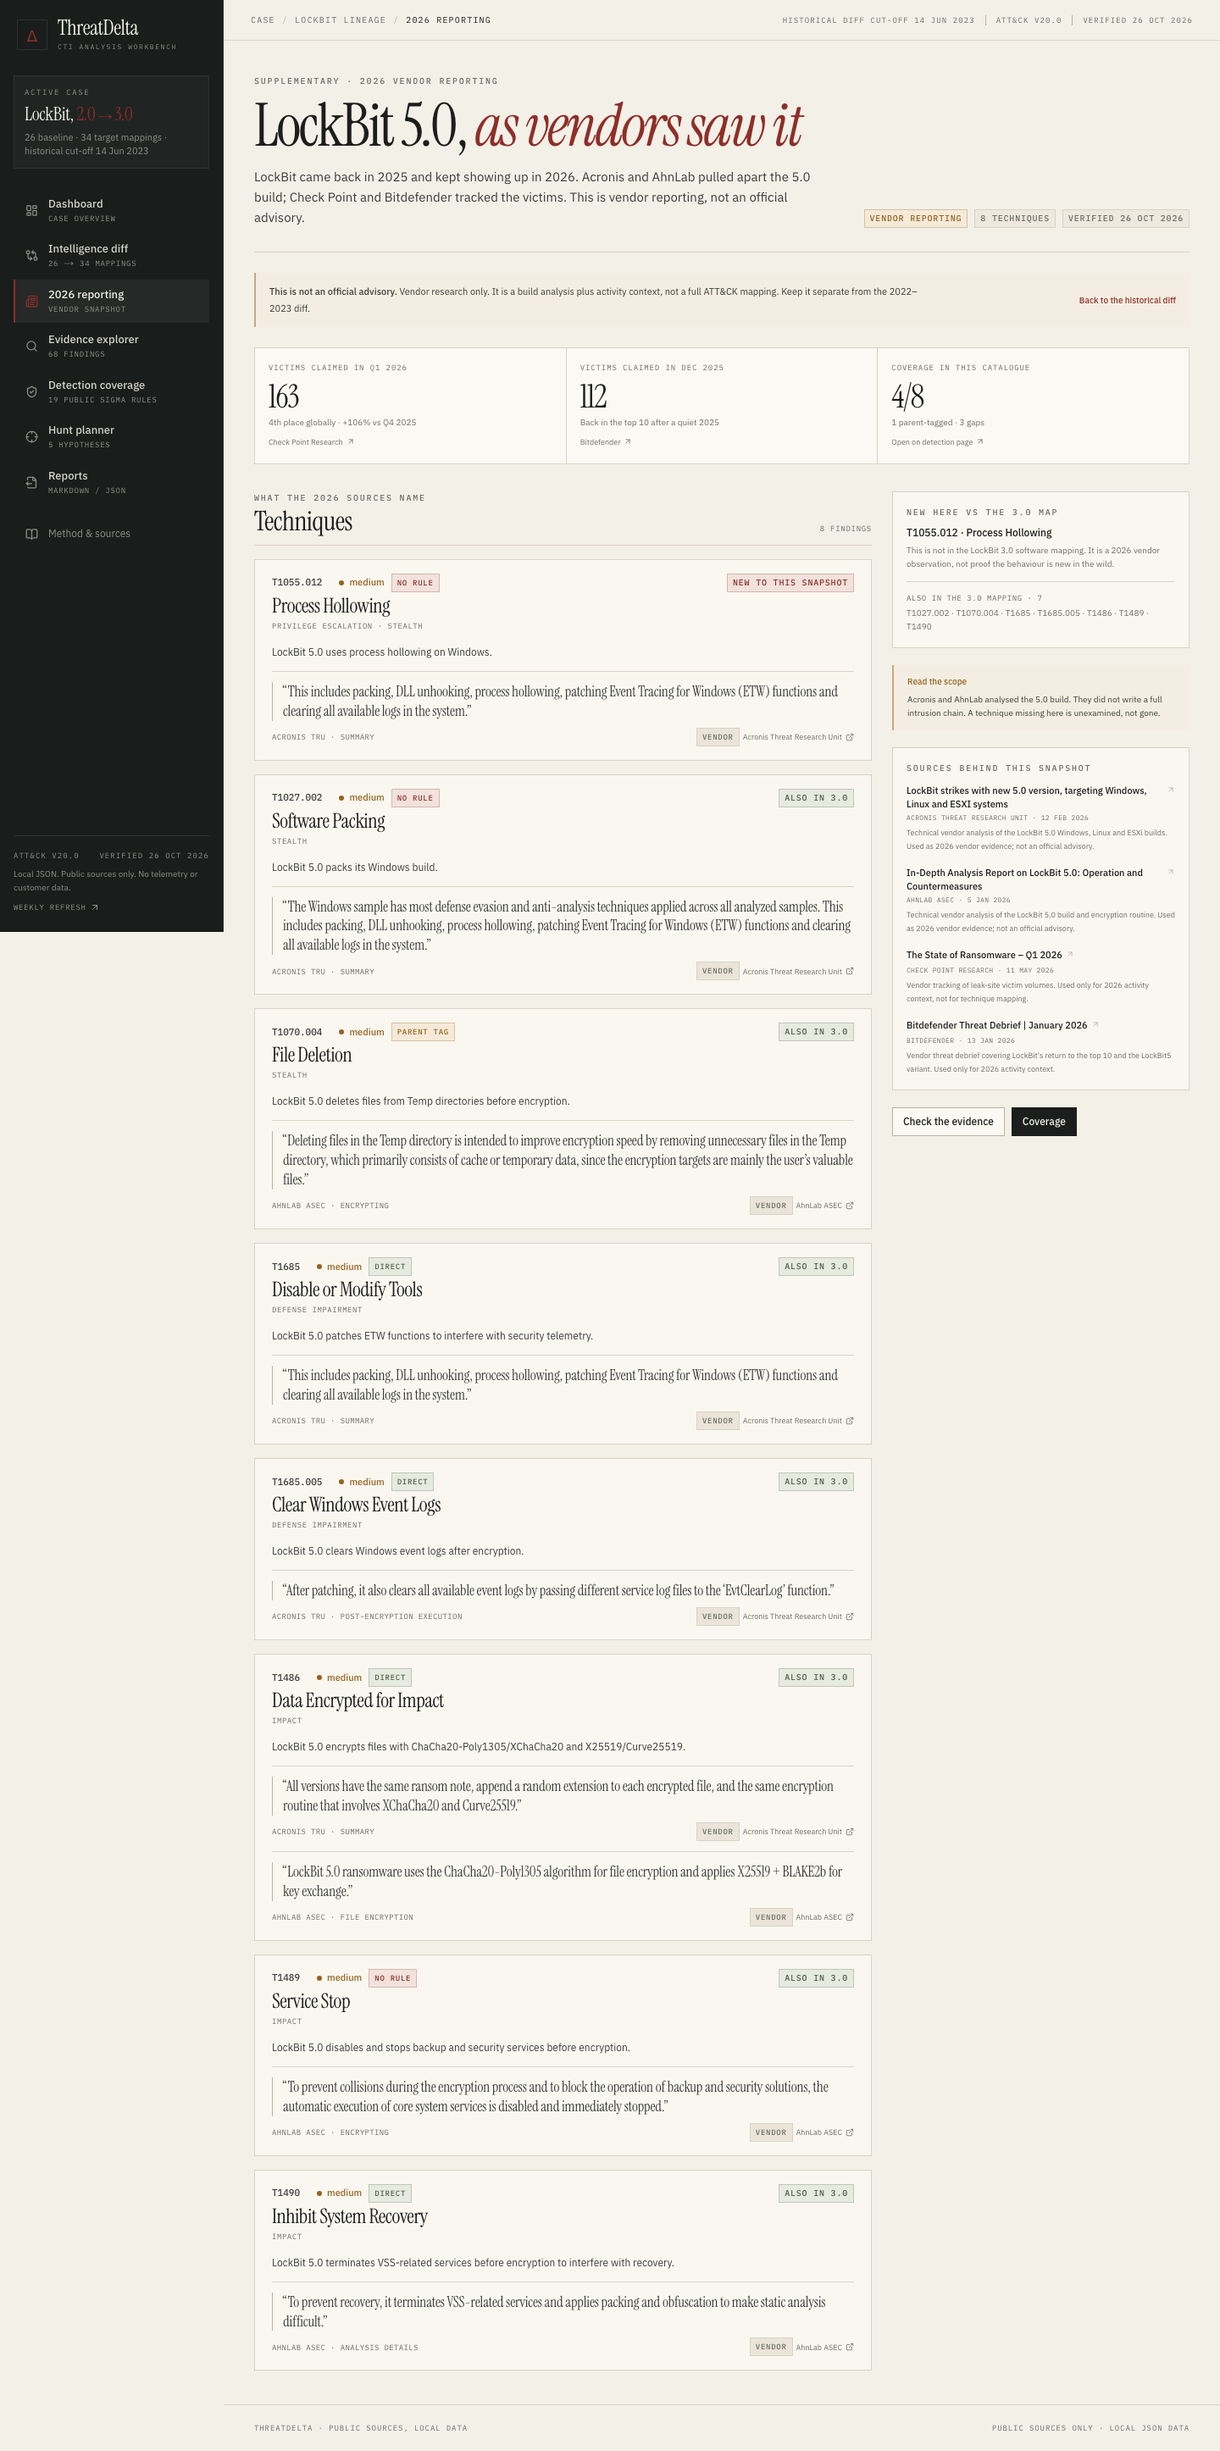
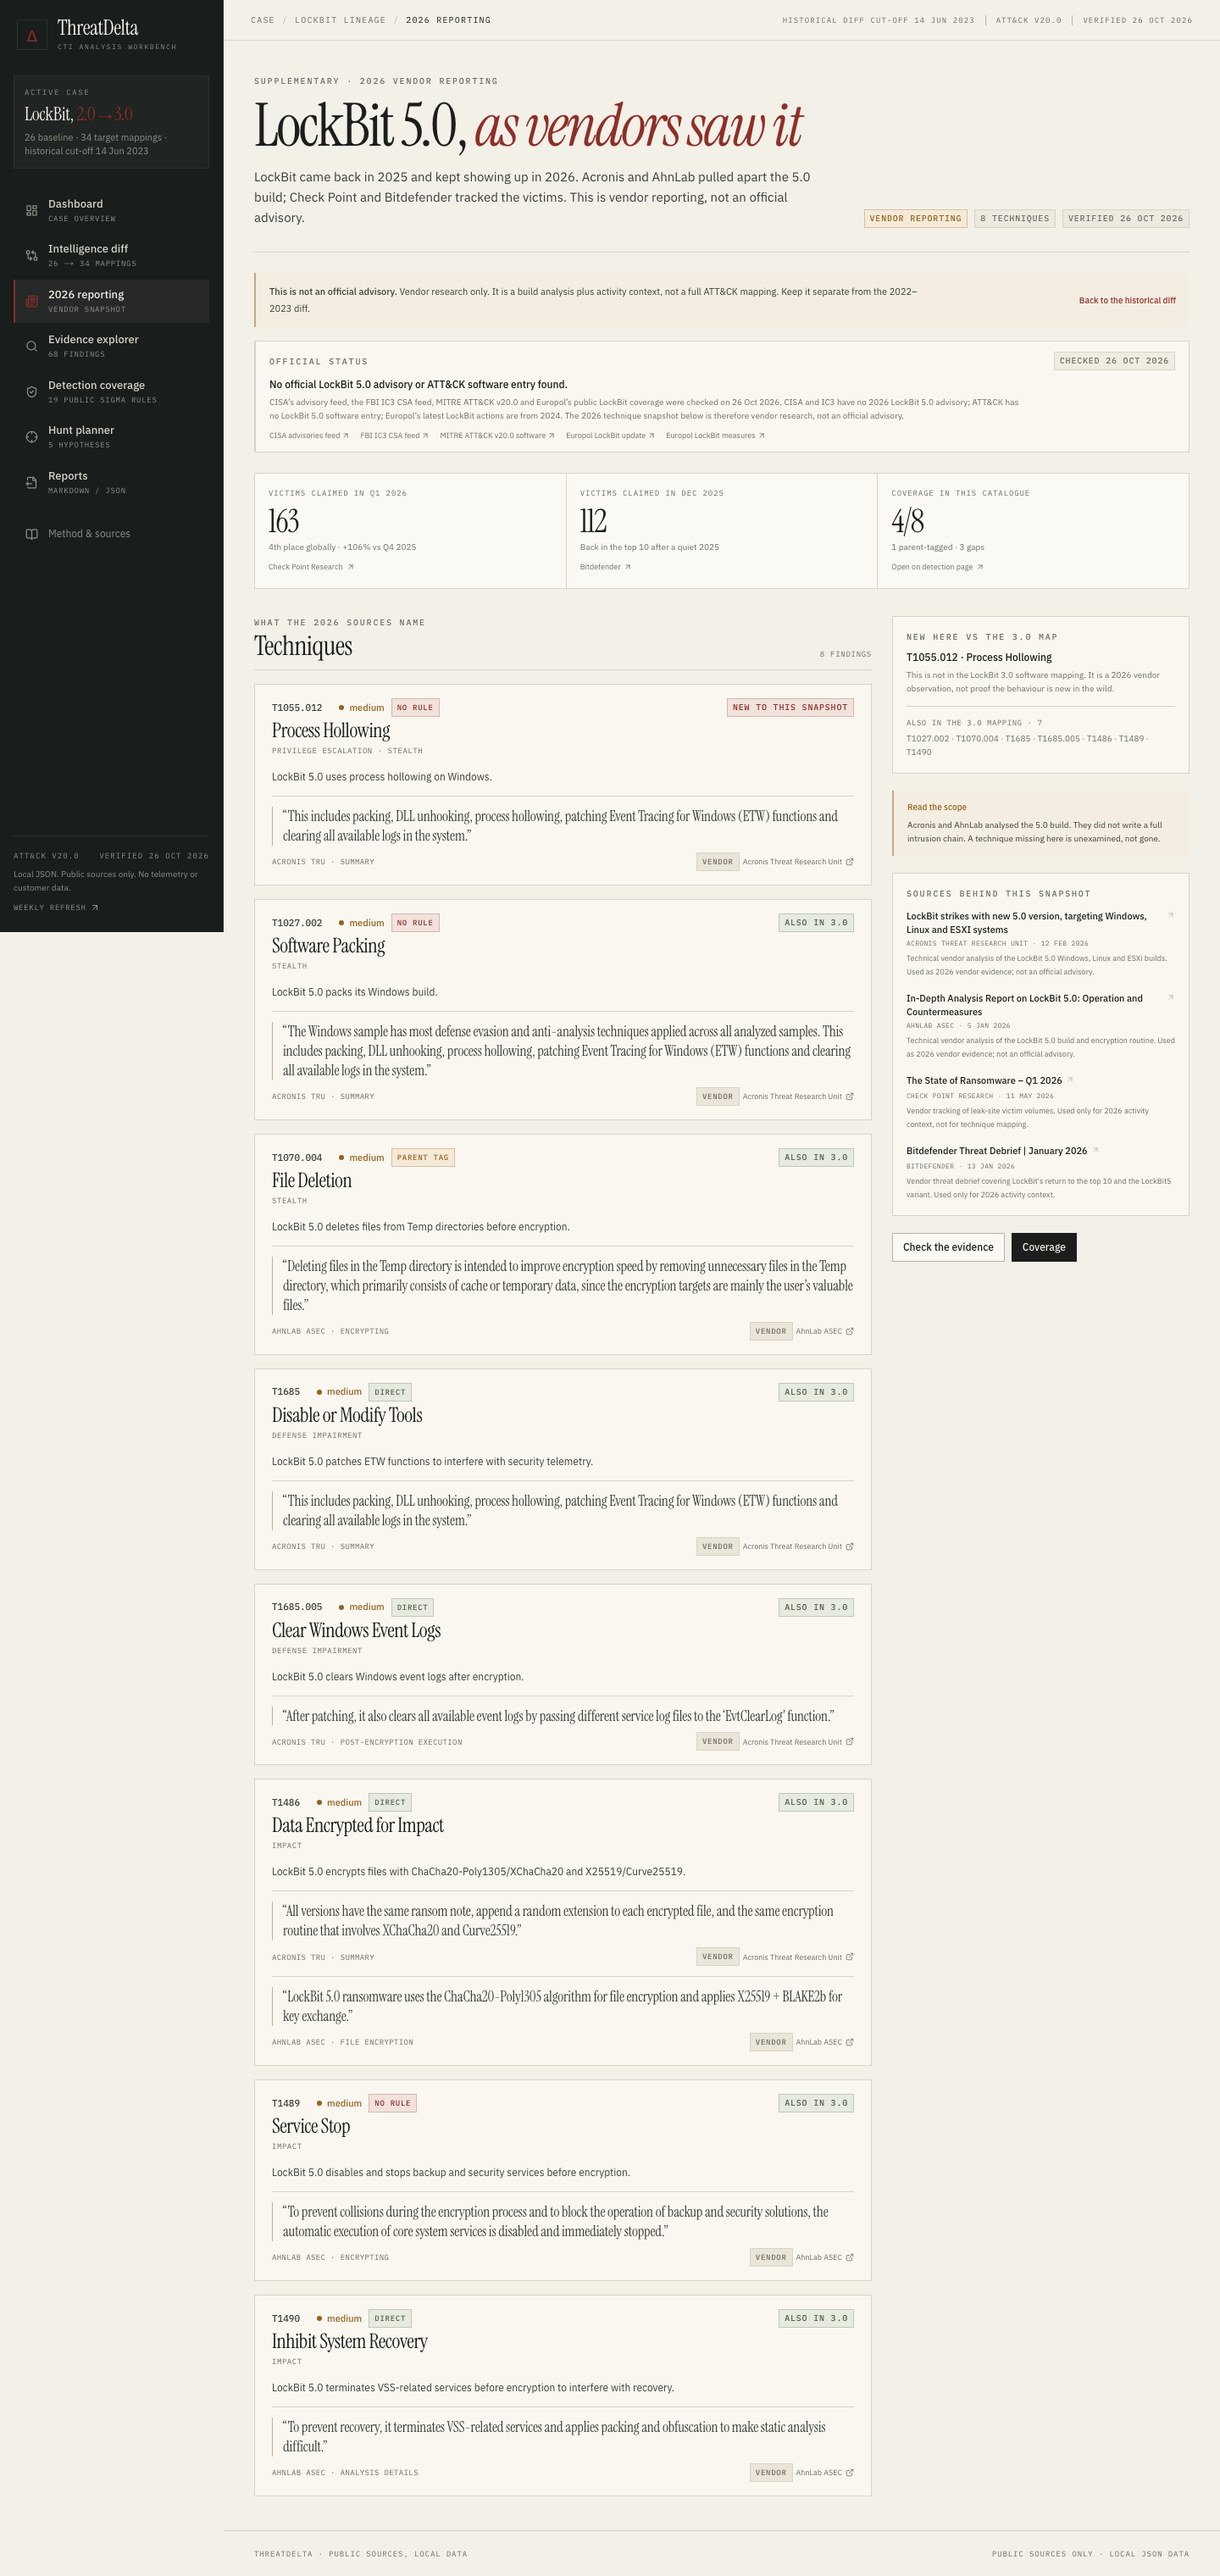
fix: make the 2026 source status explicit
- Check CISA, FBI IC3, MITRE ATT&CK v20.0 and Europol for official 2026 LockBit 5.0 coverage.
- Record that no official 2026 advisory or ATT&CK software entry exists; keep vendor research clearly labelled.
- Add Europol 2024 LockBit context, official-source links and provenance validation.
- Surface the official check on the dashboard, /2026 page and report exports.
- Update source counts to 15 and bump to 0.1.3.

diff --git a/app/2026/page.tsx b/app/2026/page.tsx
@@ -59,6 +59,28 @@ export default function CurrentReportingPage() {
         </a>
       </div>
 
+      <Panel className="mt-4 border-l-2 border-ink/40 px-4 py-3">
+        <div className="flex flex-wrap items-center justify-between gap-2">
+          <SectionLabel>Official status</SectionLabel>
+          <Badge tone="neutral">Checked {formatDate(caseFile.currentReporting.officialCheck.checkedAt)}</Badge>
+        </div>
+        <p className="mt-2 text-[12px] font-medium text-ink">{caseFile.currentReporting.officialCheck.summary}</p>
+        <p className="mt-1 max-w-4xl text-[10px] leading-4 text-muted">{caseFile.currentReporting.officialCheck.detail}</p>
+        <div className="mt-2 flex flex-wrap gap-x-3 gap-y-1">
+          {caseFile.currentReporting.officialCheck.links.map((link) => (
+            <a
+              key={link.url}
+              href={link.url}
+              target="_blank"
+              rel="noreferrer"
+              className="inline-flex items-center gap-0.5 text-[9px] text-muted hover:text-rust"
+            >
+              {link.label} <ArrowUpRight className="size-2.5" />
+            </a>
+          ))}
+        </div>
+      </Panel>
+
       <section className="mt-6 grid gap-px border border-line bg-line sm:grid-cols-3" aria-label="2026 activity context">
         {caseFile.currentReporting.activity.map((item) => {
           const source = sourceById.get(item.sourceId);

diff --git a/tests/report.test.ts b/tests/report.test.ts
@@ -51,6 +51,7 @@ describe("report exports", () => {
     expect(markdown).toContain("Data verified: 2026-10-26");
     expect(markdown).toContain("## 2026 vendor snapshot");
     expect(markdown).toContain("T1055.012");
+    expect(markdown).toContain("Official check (2026-10-26)");
     expect(markdown).toContain("Detection coverage");
     expect(markdown).toContain("Credential-led SMB fan-out");
     expect(markdown).toContain("https://www.ic3.gov/CSA/2022/220204.pdf");
@@ -98,7 +99,7 @@ describe("report exports", () => {
     expect(json.coverage.summary.covered).toBe(11);
     expect(json.coverage.summary.covered).toBe(datasetStats.coverage.covered);
     expect(json.coverage.summary.broad).toBe(1);
-    expect(json.sources).toHaveLength(13);
+    expect(json.sources).toHaveLength(15);
     expect(json.sources).toHaveLength(sources.length);
     expect(json.evidence).toHaveLength(68);
     expect(json.current.coverage.summary).toMatchObject({ total: 8, direct: 4, broad: 1, gap: 3 });

diff --git a/lib/provenance.ts b/lib/provenance.ts
@@ -177,6 +177,22 @@ export function validateDataset(data: DatasetInput): ValidationIssue[] {
       });
     }
   }
+  const officialCheck = data.caseFile.currentReporting?.officialCheck;
+  if (!officialCheck) {
+    issues.push({ level: "error", message: "The 2026 official-source check is missing" });
+  } else {
+    if (officialCheck.checkedAt !== data.caseFile.verifiedAt) {
+      issues.push({ level: "error", message: "The 2026 official-source check date is stale" });
+    }
+    if (officialCheck.links.length < 2) {
+      issues.push({ level: "error", message: "The 2026 official-source check needs source links" });
+    }
+    for (const link of officialCheck.links) {
+      if (!isHttpUrl(link.url)) {
+        issues.push({ level: "error", message: `Official source check has an invalid URL: ${link.label}` });
+      }
+    }
+  }
 
   for (const observation of data.observations) {
     const prefix = `${observation.snapshotId}/${observation.techniqueId}`;

diff --git a/app/page.tsx b/app/page.tsx
@@ -150,6 +150,9 @@ export default function DashboardPage() {
           <SectionLabel>2026 vendor snapshot</SectionLabel>
           <h2 className="mt-1 font-display text-[27px] leading-[1.02] tracking-[-0.02em]">{caseFile.currentReporting.headline}</h2>
           <p className="mt-2 max-w-2xl text-[11px] leading-5 text-muted">{caseFile.currentReporting.deck}</p>
+          <p className="mt-2 font-mono text-[8px] uppercase tracking-[0.06em] text-muted">
+            Official check · {caseFile.currentReporting.officialCheck.summary}
+          </p>
         </div>
         <div className="bg-surface px-4 py-4">
           <div className="grid h-full gap-3 sm:grid-cols-2 lg:grid-cols-1">

diff --git a/lib/report.ts b/lib/report.ts
@@ -171,6 +171,12 @@ export function buildMarkdownReport(input: ReportInput, options: ReportOptions):
       "",
       `**Scope.** ${caseFile.currentReporting.caveat}`,
       "",
+      `**Official check (${caseFile.currentReporting.officialCheck.checkedAt}).** ${caseFile.currentReporting.officialCheck.detail}`,
+      "",
+      ...caseFile.currentReporting.officialCheck.links.map(
+        (link) => `- Official source: [${link.label}](${link.url})`,
+      ),
+      "",
       `- Snapshot: ${currentSnapshot?.label ?? caseFile.currentReporting.snapshotId}`,
       `- Historical diff cut-off: ${caseFile.asOf}`,
       `- 2026 observations: ${current.length}`,

diff --git a/tests/provenance.test.ts b/tests/provenance.test.ts
@@ -48,7 +48,7 @@ describe("evidence provenance", () => {
     expect(dataset.sigma.ruleCount).toBe(sigmaRules.length);
     expect(caseFile.snapshots).toHaveLength(3);
     expect(observations.filter((observation) => observation.snapshotId === "lockbit-5.0-2026")).toHaveLength(8);
-    expect(sources).toHaveLength(13);
+    expect(sources).toHaveLength(15);
   });
 
   it("pins every Sigma rule to the verified commit and records verification dates", () => {

diff --git a/lib/types.ts b/lib/types.ts
@@ -68,11 +68,19 @@ export interface Snapshot {
   limitations: string;
 }
 
+export interface OfficialCheck {
+  checkedAt: string;
+  summary: string;
+  detail: string;
+  links: Array<{ label: string; url: string }>;
+}
+
 export interface CurrentReporting {
   snapshotId: string;
   headline: string;
   deck: string;
   caveat: string;
+  officialCheck: OfficialCheck;
   activity: Array<{
     label: string;
     value: string;

diff --git a/README.md b/README.md
@@ -13,7 +13,7 @@ Built with Next.js, TypeScript, Tailwind CSS and local JSON data. No backend, au
 - **2026 vendor snapshot:** LockBit 5.0, 8 techniques from Acronis and AhnLab; activity context from Check Point and Bitdefender
 - **Last verified:** 26 October 2026
 - **SigmaHQ snapshot:** commit `05d1031` (21 October 2026), 19 rules pinned to that commit
-- **Evidence footprint:** 68 findings, 118 evidence entries and 13 sources
+- **Evidence footprint:** 68 findings, 118 evidence entries and 15 sources
 
 The 2022–2023 dates are the historical case. The 2026 page is separate vendor reporting, not an official advisory and not part of the historical diff counts.
 
@@ -81,7 +81,7 @@ The 2022–2023 diff is still the core case. Separately, the **2026 reporting** 
 - 8 techniques, 4 with exact Sigma coverage, 1 parent-tagged and 3 gaps.
 - **Process hollowing (`T1055.012`)** is the only technique not already in the 3.0 mapping.
 - 163 claimed victims in Q1 2026 (Check Point) and 112 in December 2025 (Bitdefender).
-- This is vendor research, not an official advisory and not a complete intrusion chain. A technique missing there is unexamined, not gone.
+- **Official check (26 Oct 2026):** CISA and FBI IC3 feeds have no 2026 LockBit 5.0 advisory, MITRE ATT&CK v20.0 has no LockBit 5.0 software entry, and Europol's latest LockBit actions are from 2024. The technical snapshot is vendor research, not an official advisory and not a complete intrusion chain. A technique missing there is unexamined, not gone.
 
 ## Screenshots
 
@@ -185,6 +185,8 @@ The UI shows every factor and its points. Priority is a planning heuristic, not 
 - AhnLab ASEC, *In-Depth Analysis Report on LockBit 5.0: Operation and Countermeasures*, 5 Jan 2026 — https://asec.ahnlab.com/en/91945/
 - Check Point Research, *The State of Ransomware – Q1 2026*, 11 May 2026 — https://research.checkpoint.com/2026/the-state-of-ransomware-q1-2026/
 - Bitdefender, *Bitdefender Threat Debrief | January 2026*, 13 Jan 2026 — https://www.bitdefender.com/en-us/blog/businessinsights/bitdefender-threat-debrief-january-2026
+- Europol, *LockBit power cut: four new arrests and financial sanctions against affiliates*, 1 Oct 2024 — https://www.europol.europa.eu/media-press/newsroom/news/lockbit-power-cut-four-new-arrests-and-financial-sanctions-against-affiliates
+- Europol, *New measures issued against LockBit*, 7 May 2024 — https://www.europol.europa.eu/media-press/newsroom/news/new-measures-issued-against-lockbit
 - SigmaHQ, public detection rules at commit `05d1031` (21 Oct 2026) — https://github.com/SigmaHQ/sigma/commit/05d1031f537e830b76da53bae2400c5814c89165
 
 Unit 42 and SentinelOne are background for MITRE mappings cited in the dataset. The 2026 Acronis/AhnLab pieces drive the 2026 technique snapshot; Check Point and Bitdefender are activity context only.

diff --git a/CHANGELOG.md b/CHANGELOG.md
@@ -2,6 +2,15 @@
 
 All notable changes to ThreatDelta are recorded here. The project is a case-study workbench, not a production CTI platform.
 
+## [0.1.3] — 2026-10-26
+
+### Fixed
+
+- Added an explicit official-source check for the 2026 snapshot. CISA and FBI IC3 feeds, MITRE ATT&CK v20.0 and Europol were checked on 26 Oct 2026.
+- Clarified that no official LockBit 5.0 advisory or ATT&CK software entry exists as of that date. The 2026 technical findings remain vendor research and are labelled as such throughout.
+- Added Europol's 2024 LockBit actions as the latest official context, plus direct links to the CISA/IC3 feeds and MITRE software list.
+- Updated source counts to 15 and added official-status validation and report output.
+
 ## [0.1.2] — 2026-10-26
 
 ### Added
